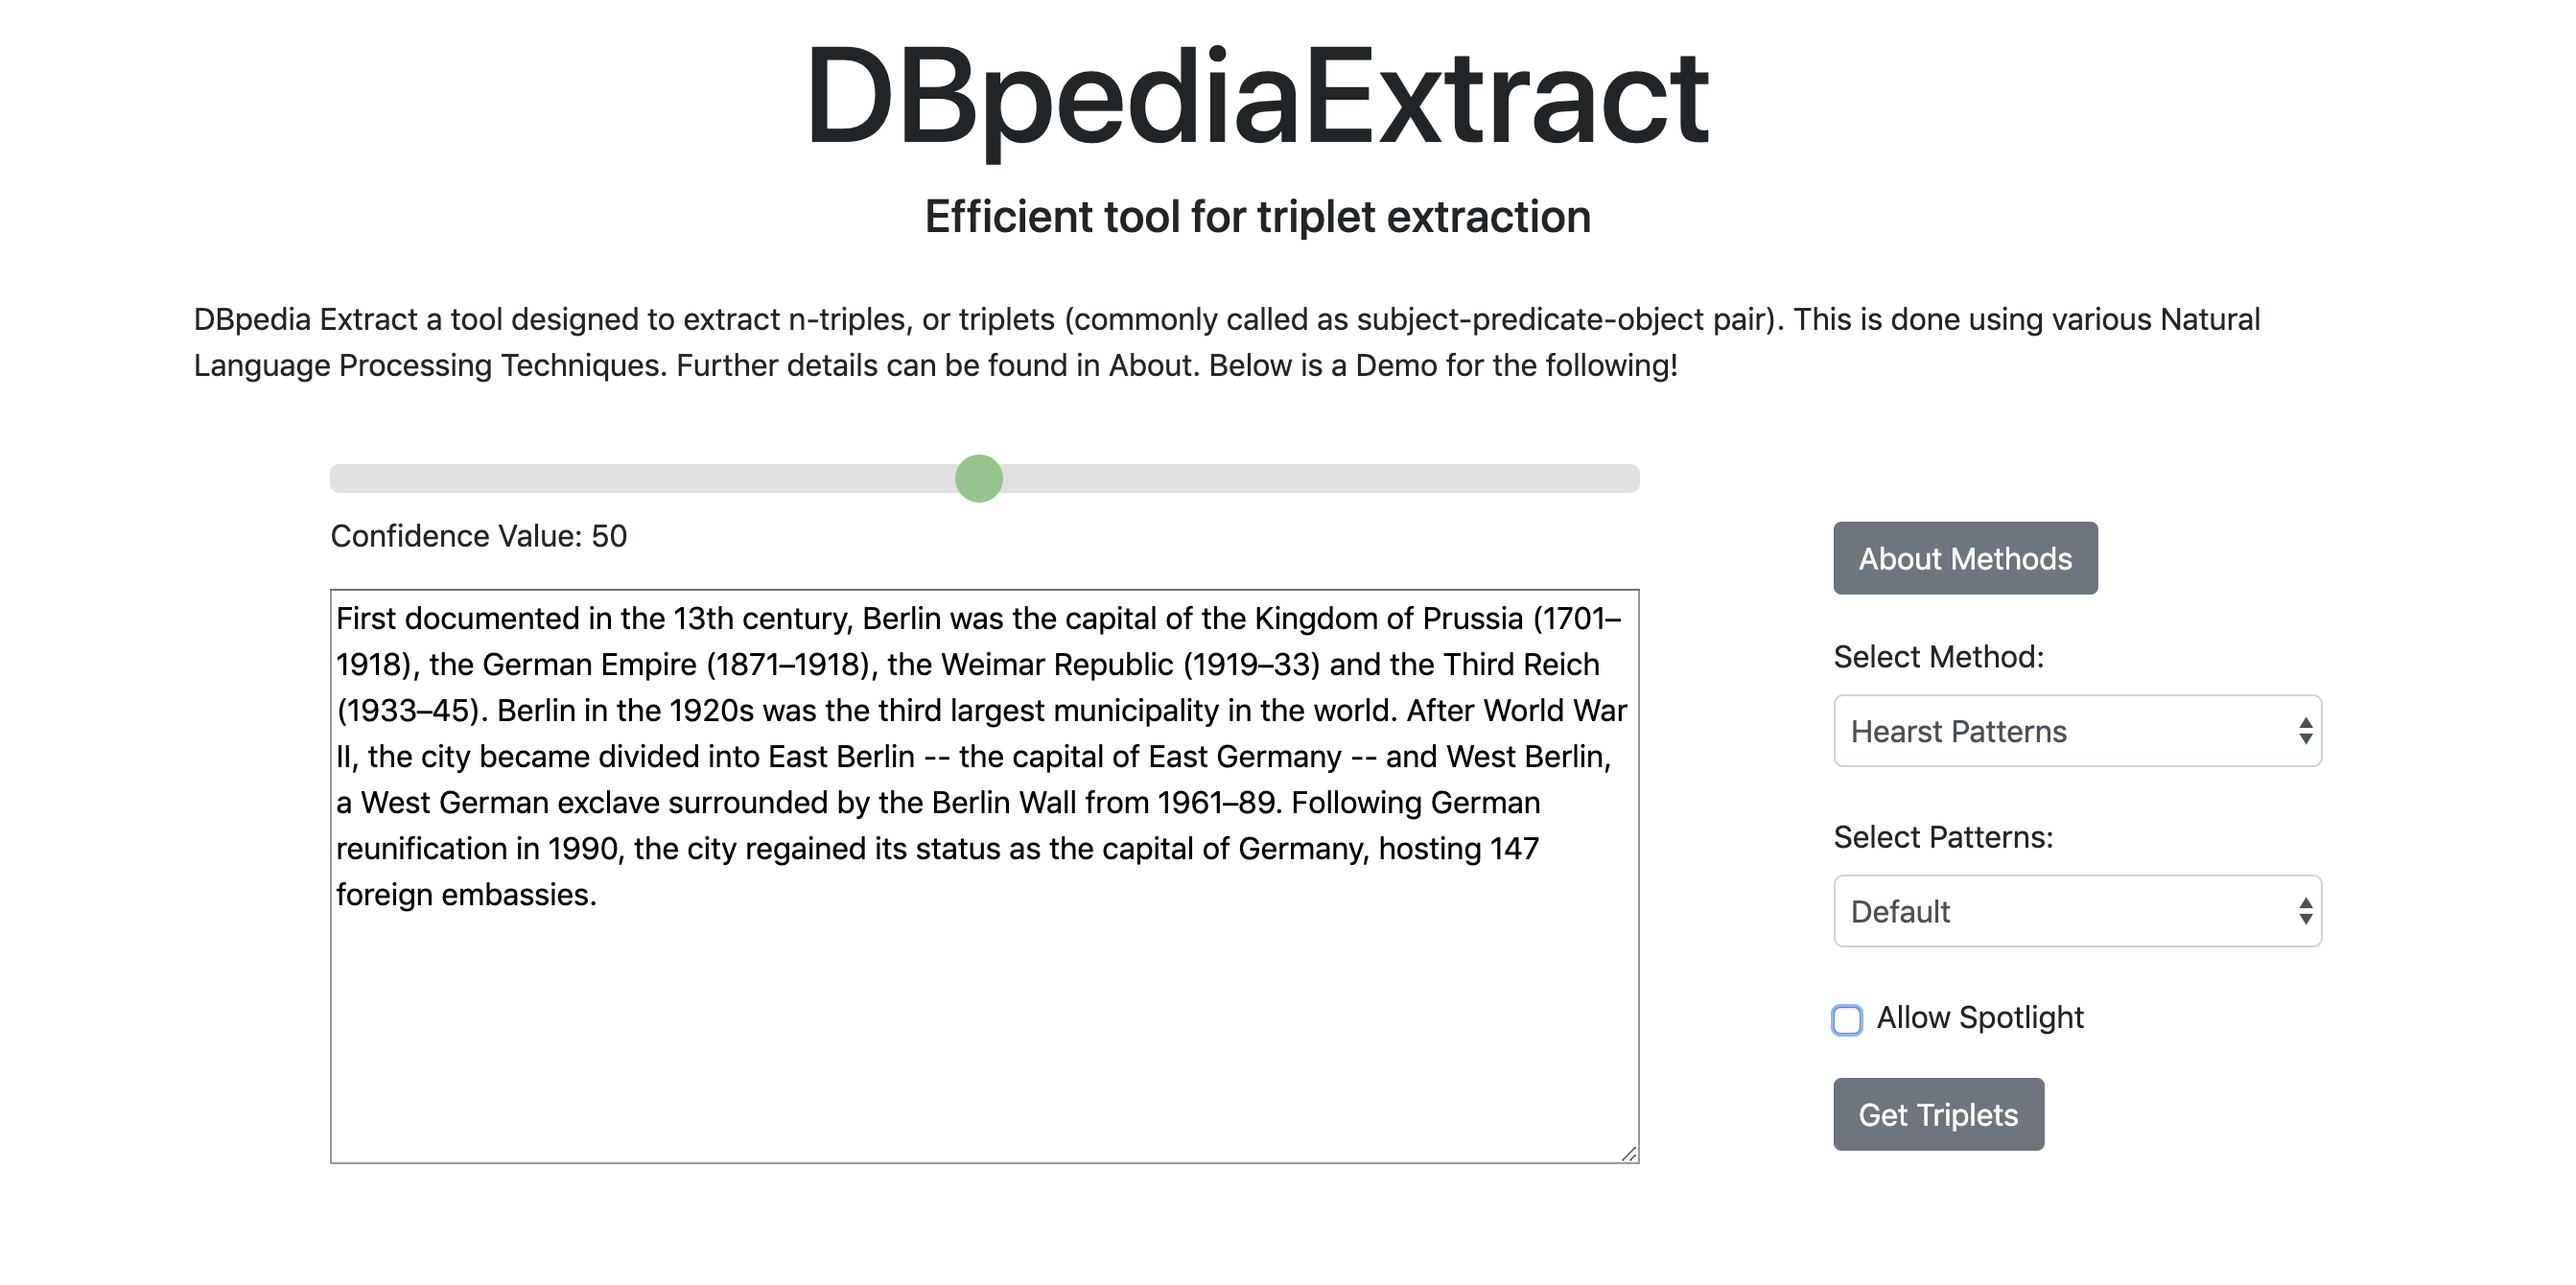
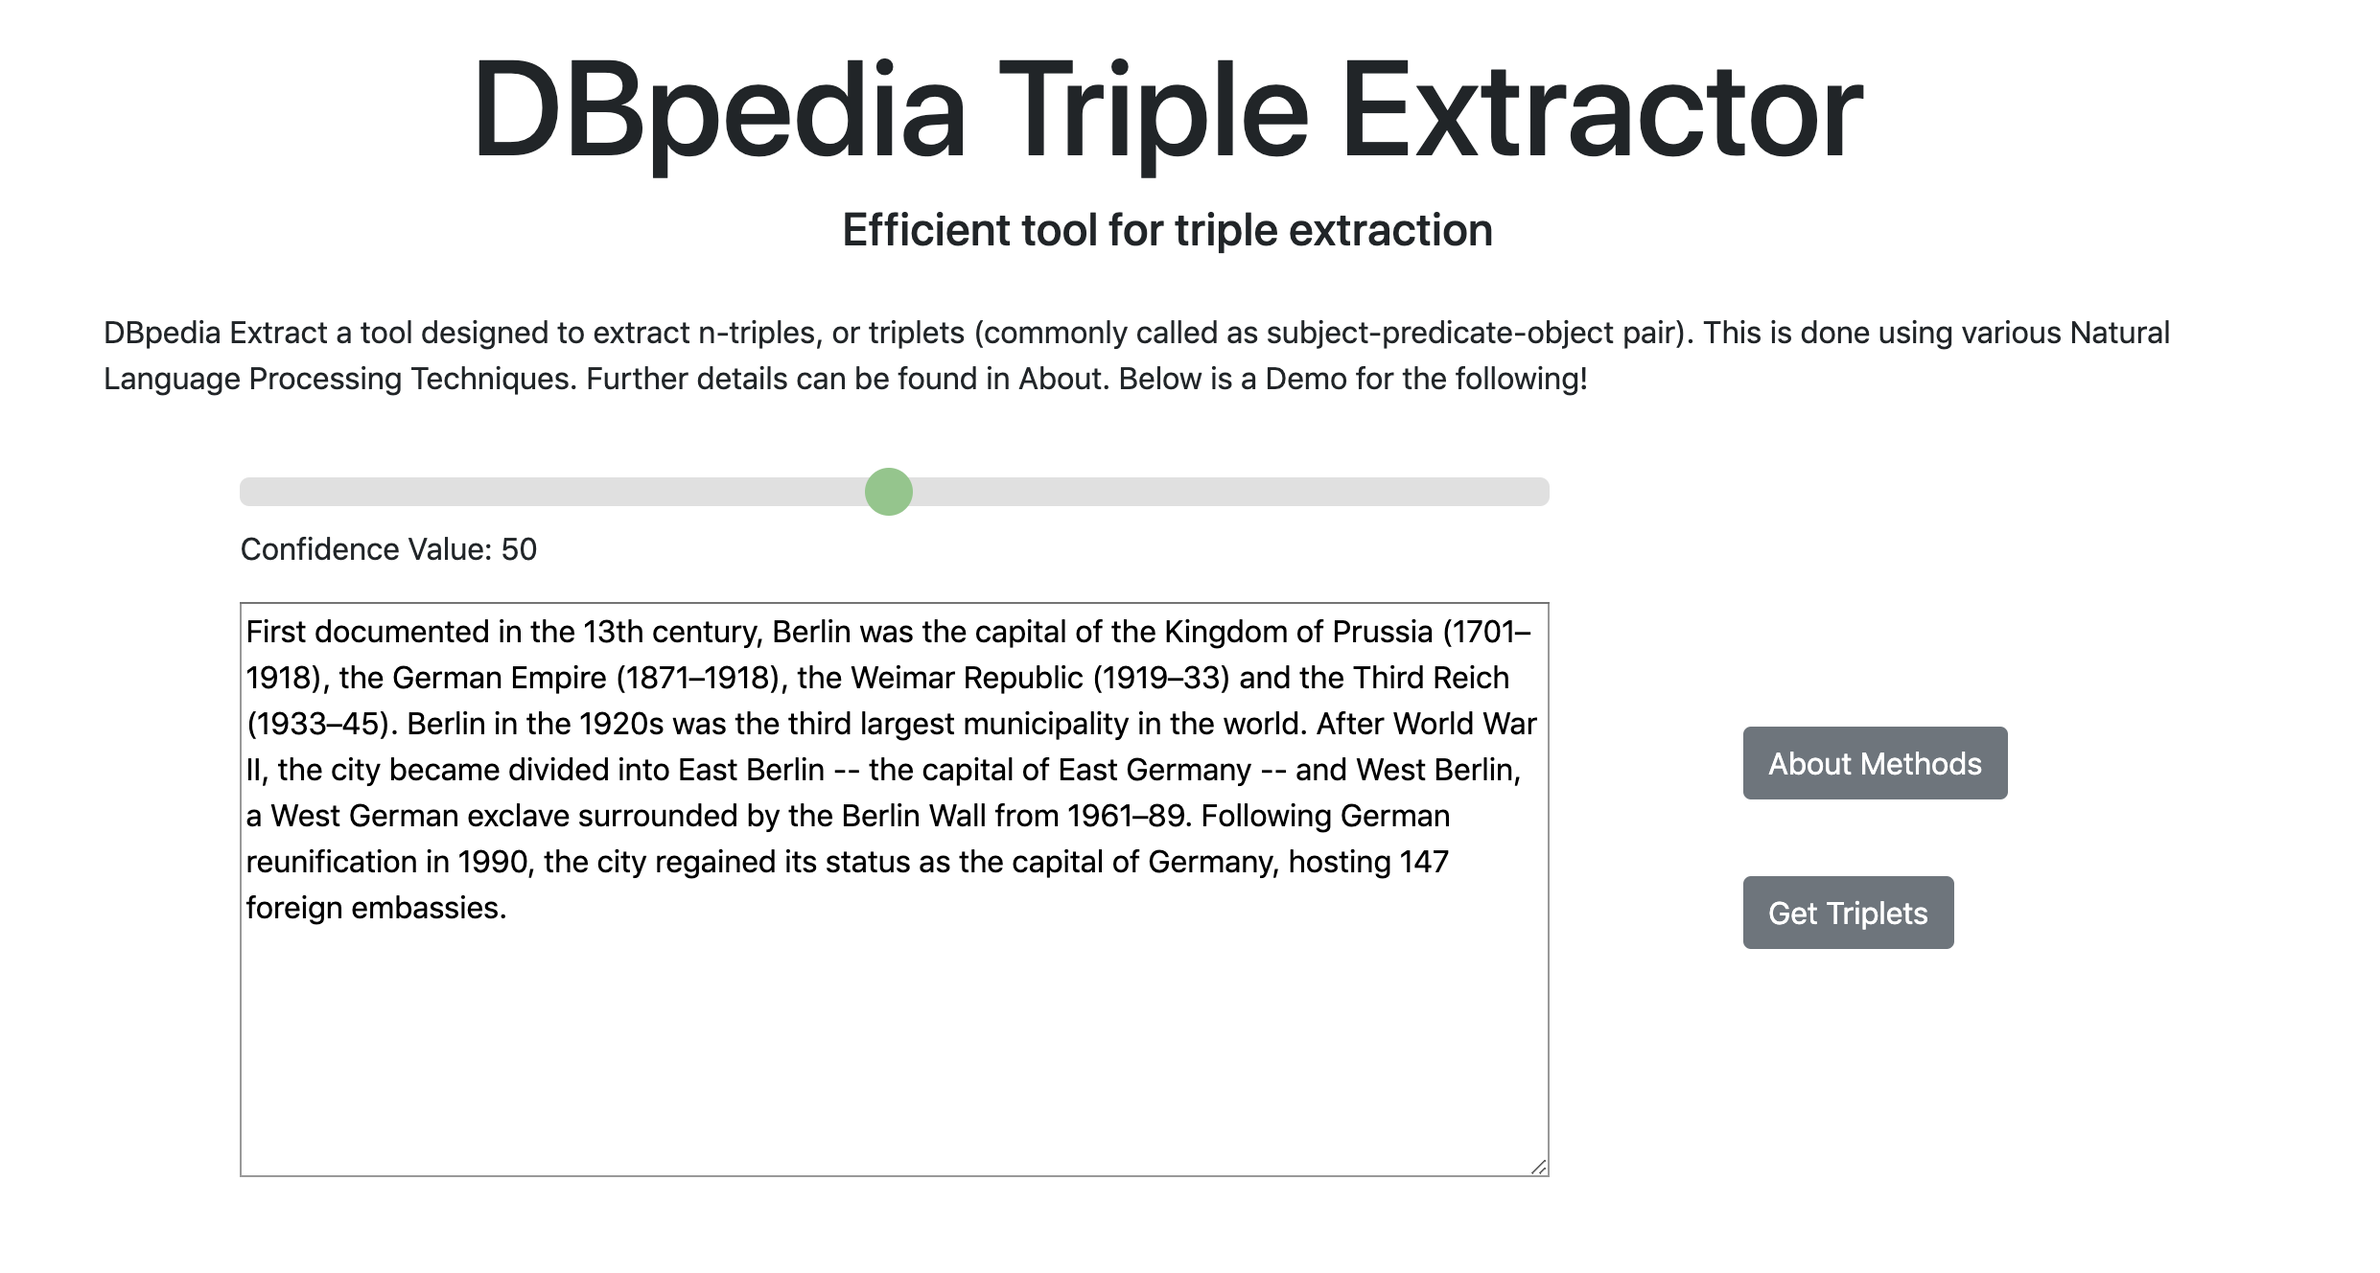
modified name and index

diff --git a/app/templates/index.html b/app/templates/index.html
@@ -14,8 +14,8 @@
     <section class="search-sec" id="main">
         <div class="container">
             <div style="text-align:center;padding:20px">
-                <h1 style="font-size: 70px">DBpediaExtract</h1>
-                <h4>Efficient tool for triplet extraction</h4>
+                <h1 style="font-size: 70px">DBpedia Triple Extractor</h1>
+                <h4>Efficient tool for triple extraction</h4>
             </div>
             <p>DBpedia Extract a tool designed to extract n-triples, or triplets (commonly called as subject-predicate-object 
                 pair). This is done using various Natural Language Processing Techniques. Further details can be found in About. Below is a 
